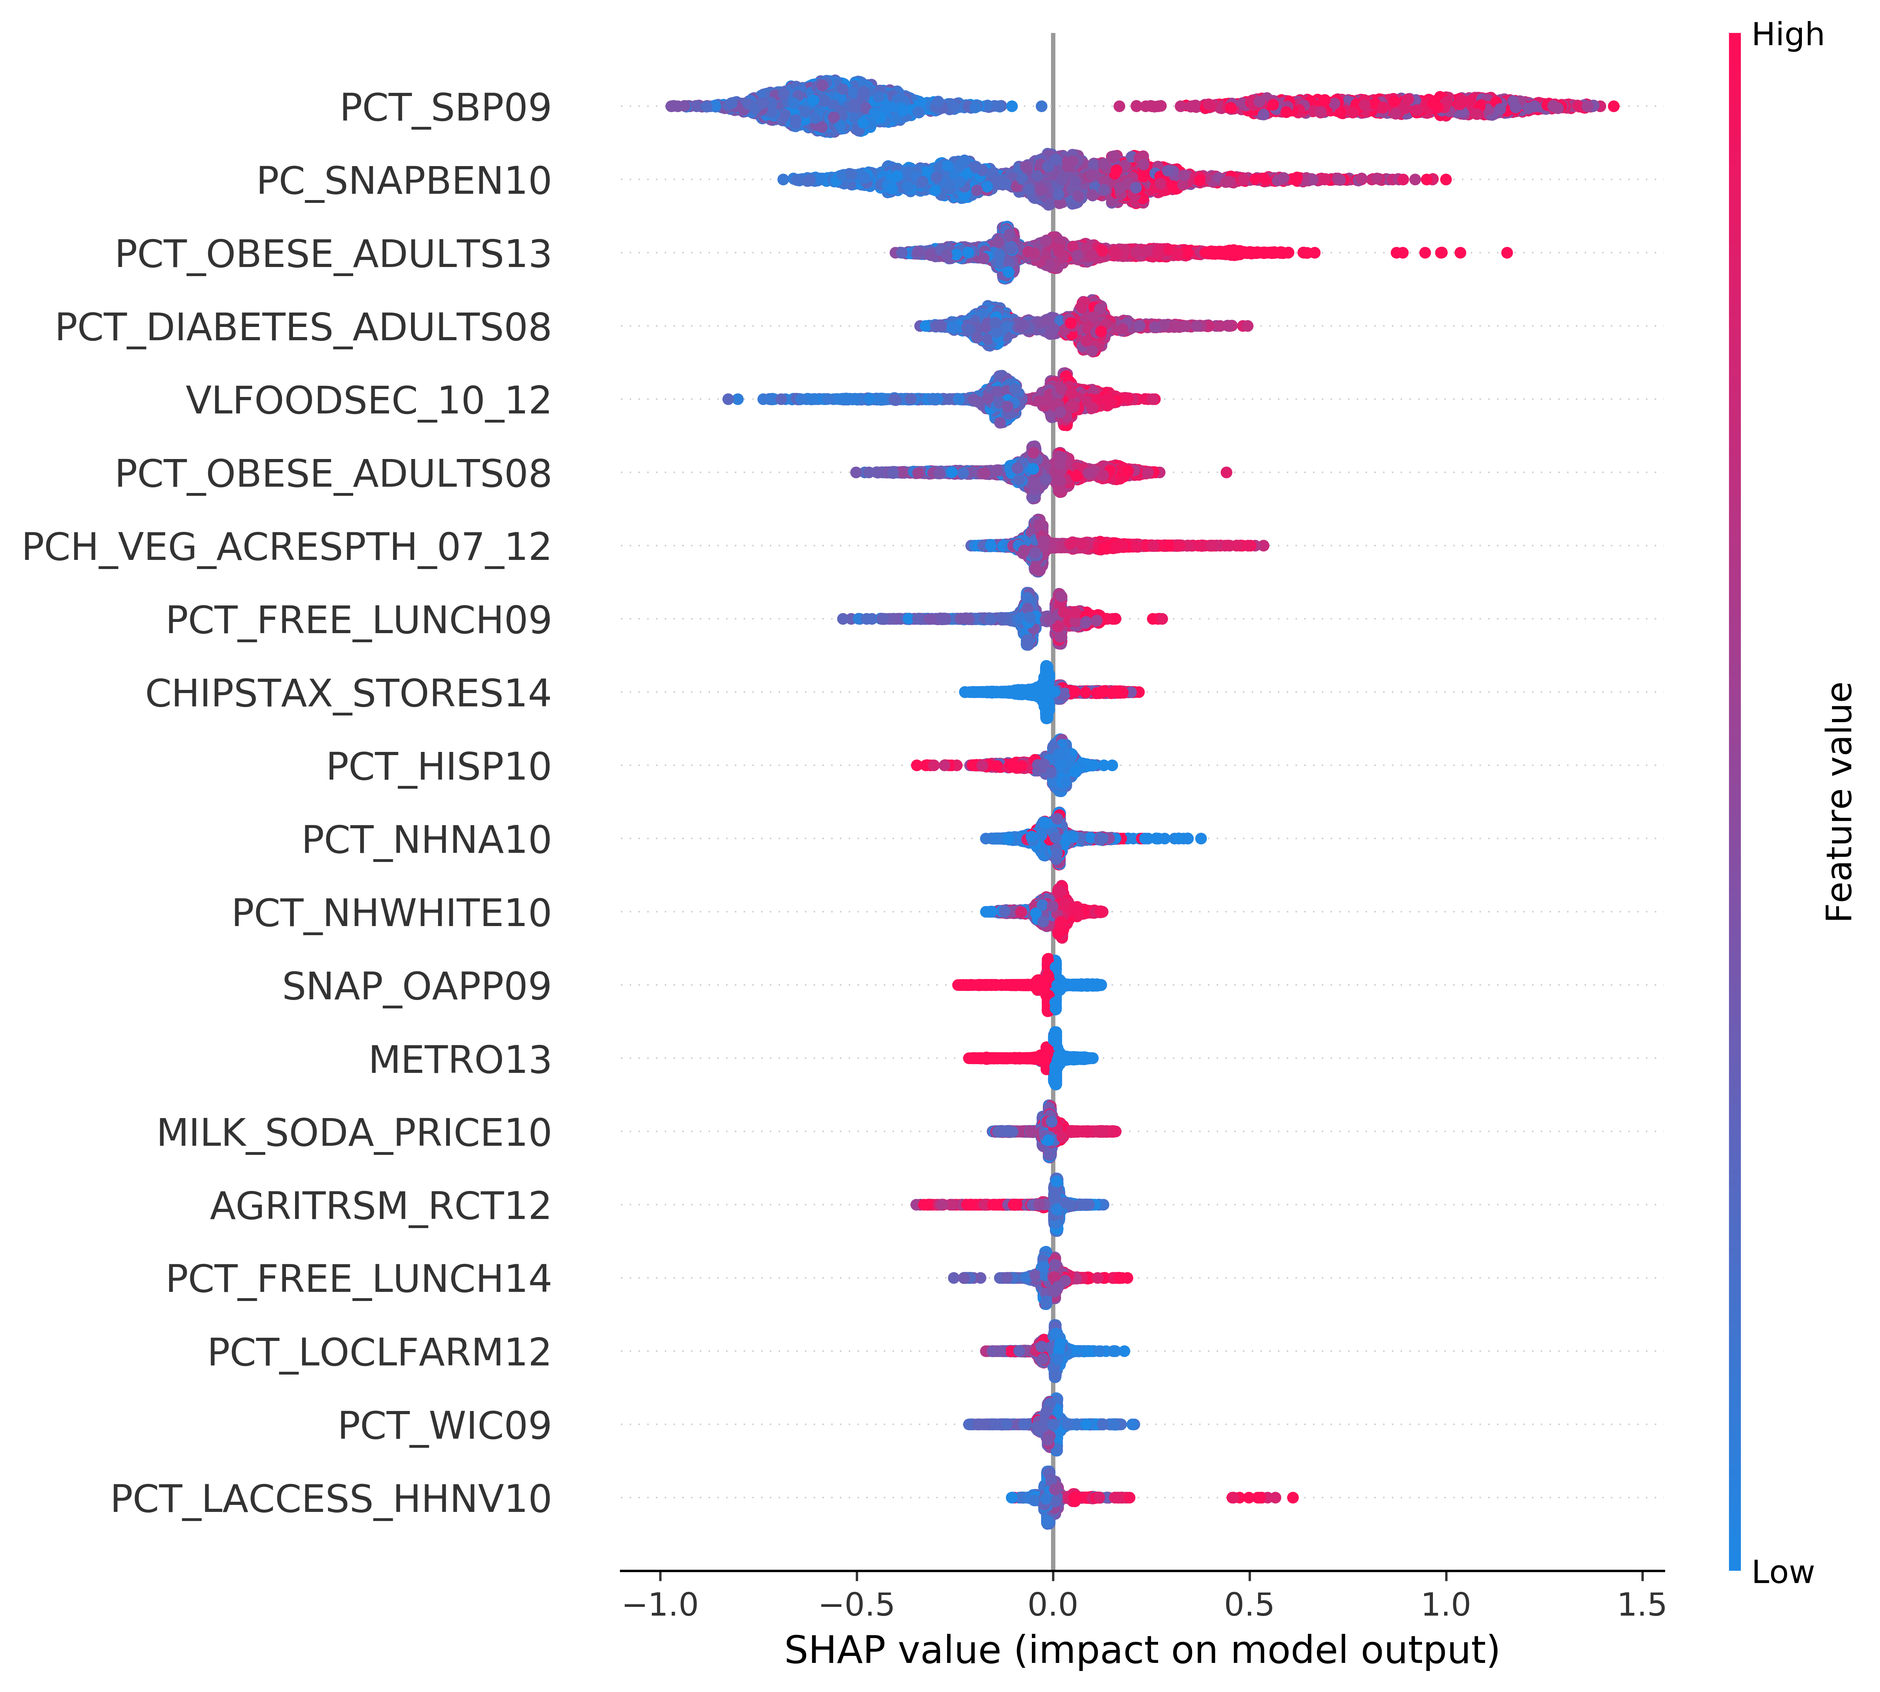
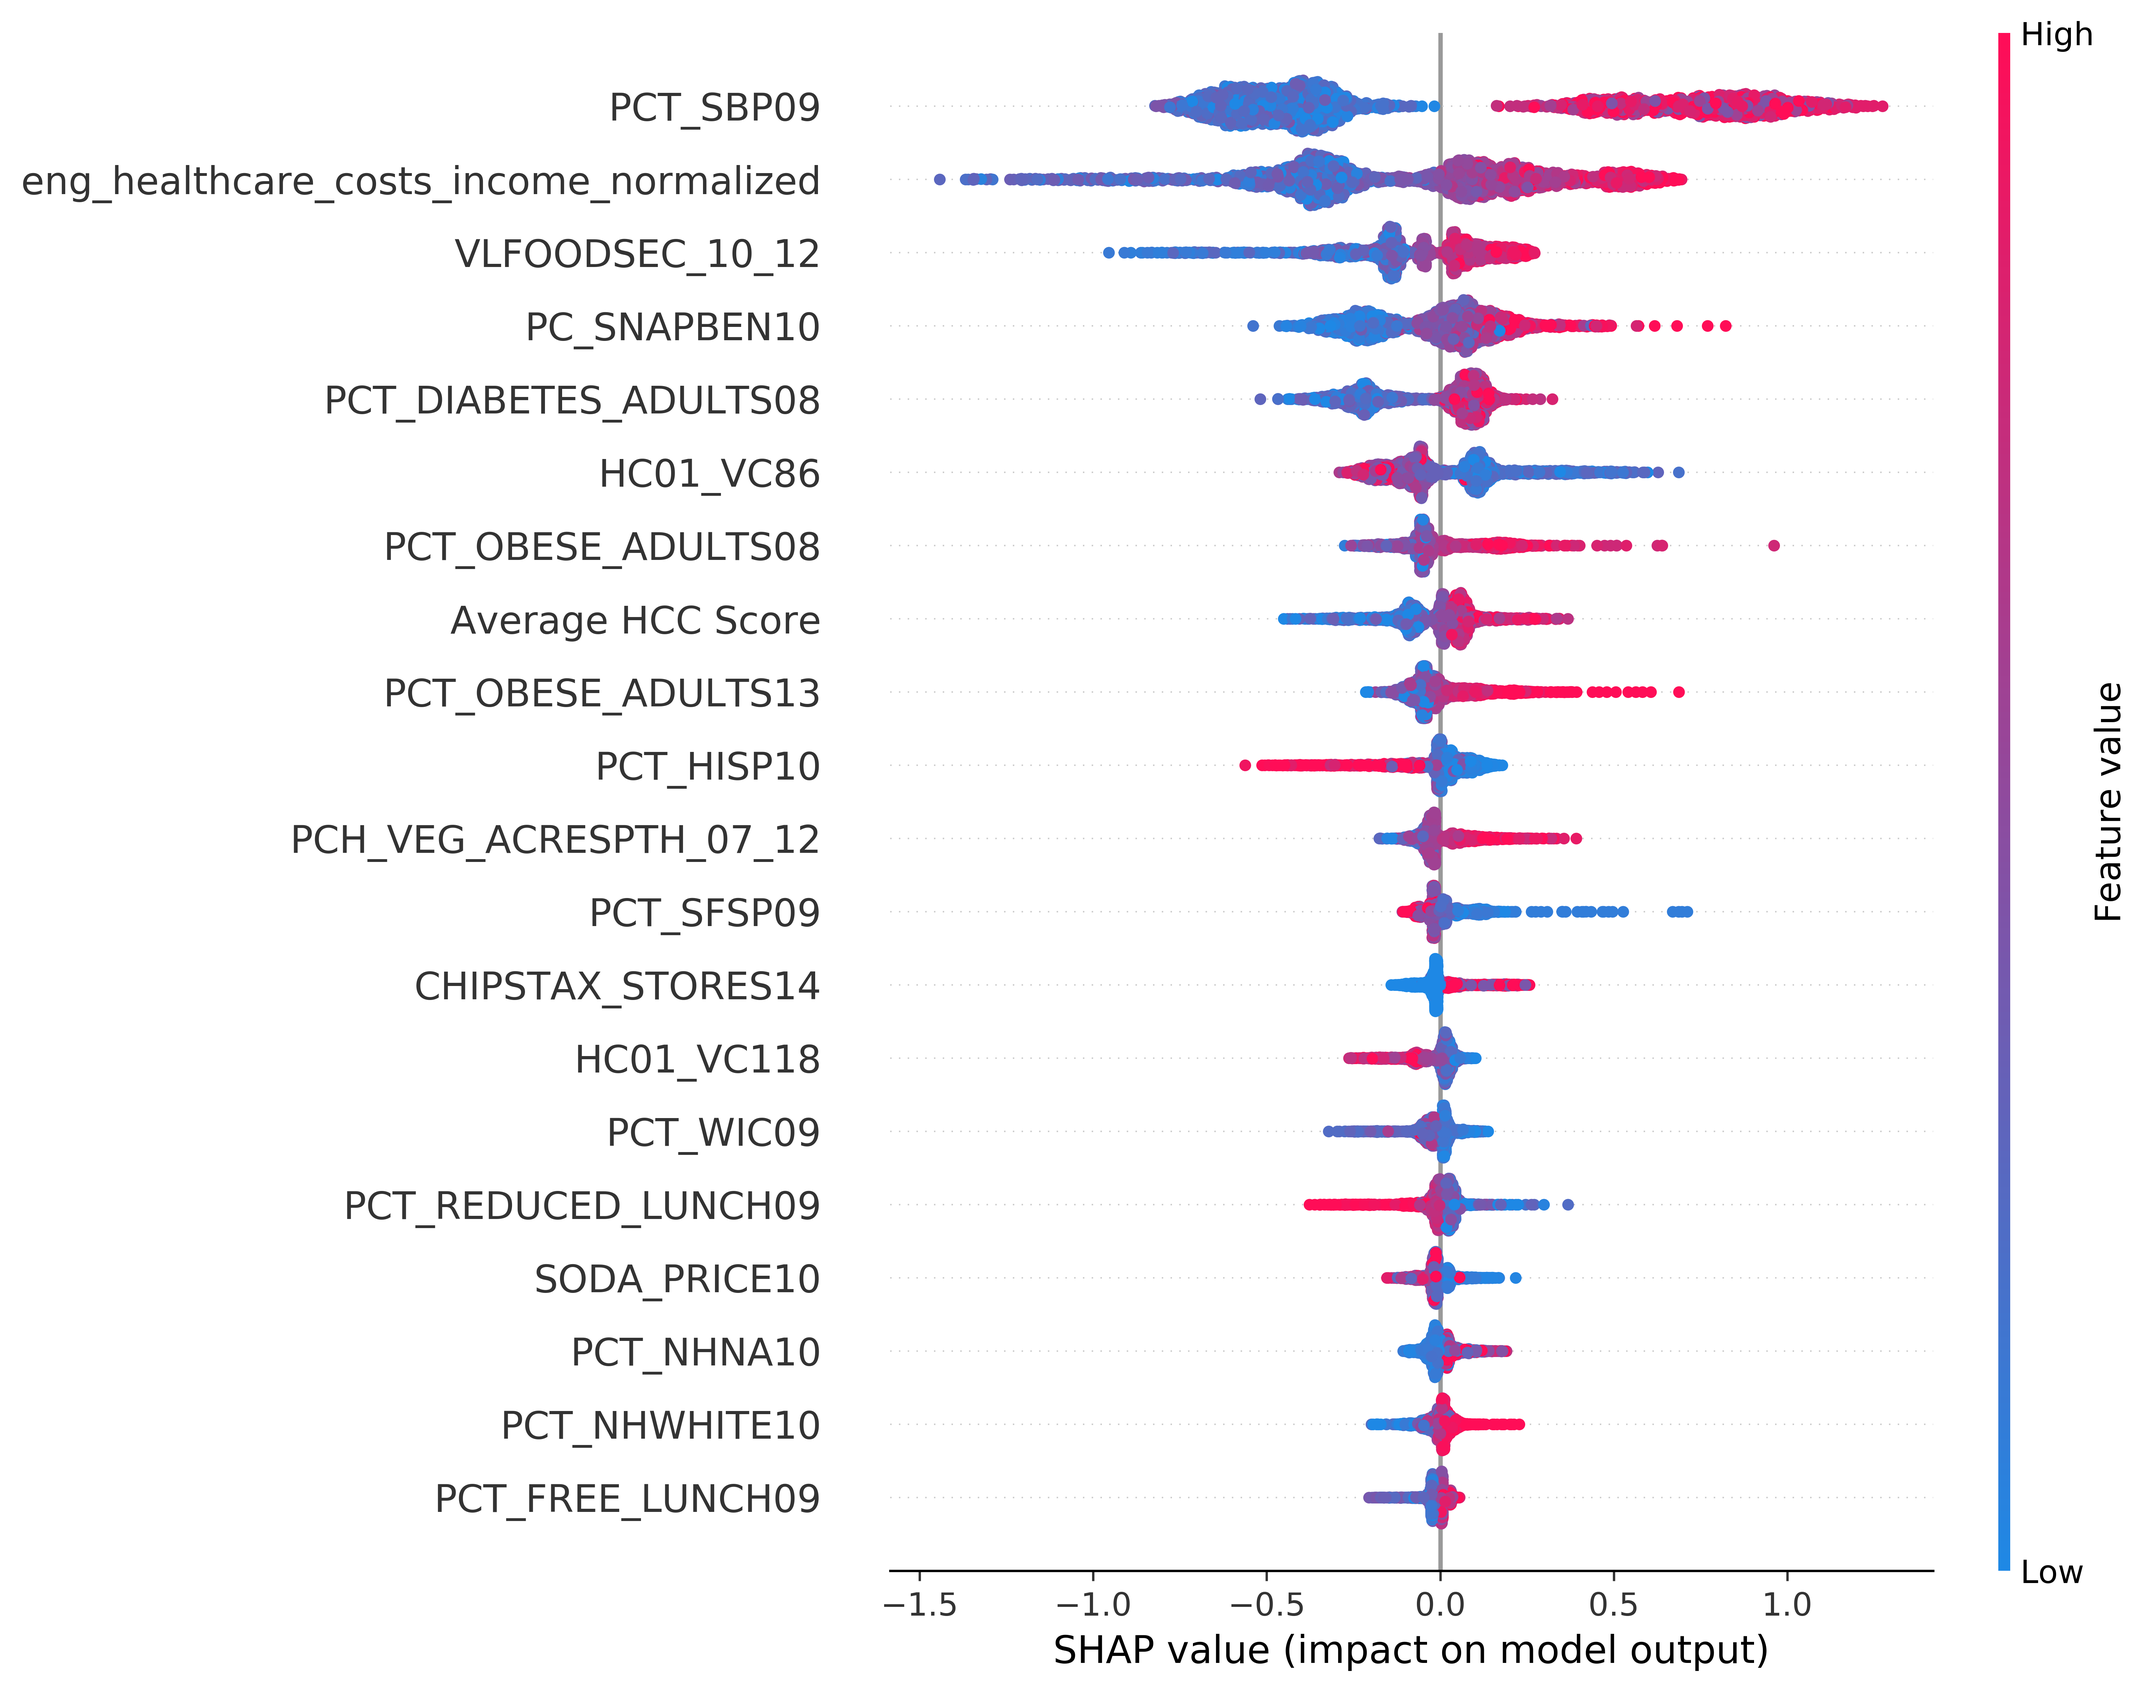
Update XGBoost model with results based on new features
Includes new hyperparams

diff --git a/heartbreaker/model_boosted_tree.py b/heartbreaker/model_boosted_tree.py
@@ -14,7 +14,7 @@ import data_loader
 import util
 import plotting
 
-def xgb(x_train, y_train, x_test, y_test, depth=6, n_est=200):
+def xgb(x_train, y_train, x_test, y_test, depth=6, n_est=250):
     """
     Train a boosted tree and return performance on testing data
 
@@ -71,7 +71,7 @@ def feature_importance(percentile=25):
     rates = data.pop('heart_disease_mortality')
     rates_high_low = util.continuous_to_categorical(rates, 100 - percentile)
     
-    model = xgboost.XGBClassifier(max_depth=6, learning_rate=1e-2, n_estimators=200, random_state=8292)  # 6 and 200 for depth and n_estimators were found via parameter sweep
+    model = xgboost.XGBClassifier(max_depth=6, learning_rate=1e-2, n_estimators=250, random_state=8292)  # 6 and 250 for depth and n_estimators were found via parameter sweep
     model.fit(data, rates_high_low)
 
     plotting.plot_shap_tree_summary(model, data, data, os.path.join(plotting.PLOTS_DIR, "shap_xgboost_importance.png"))

diff --git a/README.md b/README.md
@@ -8,4 +8,4 @@ Results are with optimized hyperparameters applied to data that has had extreme 
 | Model | Accuracy | Precision | Recall | F1 score |
 | --- | --- | --- | --- | --- |
 | Logistic Regression (L1) | 0.8599 | 0.7543 | 0.6617 | 0.7029 |
-| XGBoost Tree | 0.8607 | 0.7589 | 0.6568 | 0.7028 |
+| XGBoost Tree | 0.8628 | 0.7585 | 0.6757 | 0.7130 |
